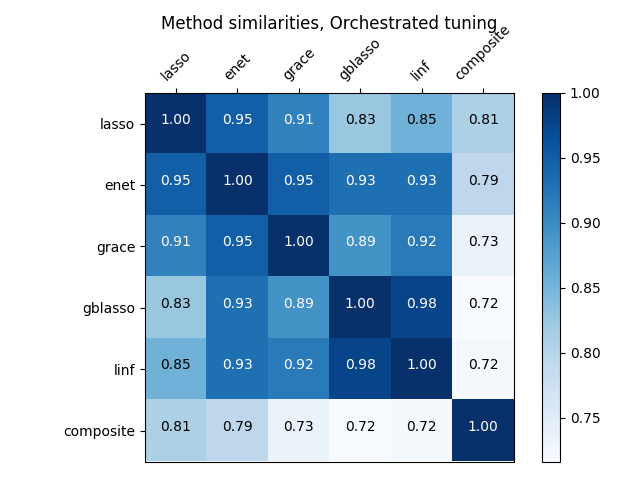
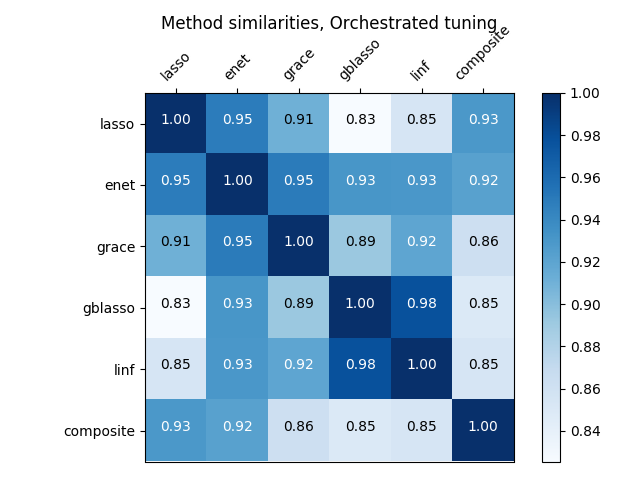
Updated optimal tuning parameters before big recalculation

diff --git a/python/plotting_utils.py b/python/plotting_utils.py
@@ -4,6 +4,7 @@ import numpy as np
 import pandas as pd
 import itertools
 import math
+from orchestrated_tuning.utilities import converge_iterations
 from commons import full_method_list as method_order, glm_l1_ratios, grace_lambda1_values, grace_lambda2_values, \
     gblasso_gamma_values, gblasso_lambda_values, linf_c_values, alinf_e_values, cm_vote_thresholds, mapping_files, \
     error_files, fraction_votes_files
@@ -55,7 +56,7 @@ def plot_similarities_heatmap(similarities, methods, url="figures/similarities.p
 def plot_summary_comparison(summary_urls, figure_url="figures/tuning_method_comparison.png",
                             suptitle="Properties by tuning method"):
     summaries = {}
-    for label, url in summary_urls.iteritems():
+    for label, url in sorted(summary_urls.iteritems(), reverse=True):
         summaries[label] = pd.read_csv(url, index_col=0)
 
     methods = set(method_order)
@@ -77,7 +78,7 @@ def plot_summary_comparison(summary_urls, figure_url="figures/tuning_method_comp
         subplot.set_xticklabels(methods, rotation=45 if n_tuning_methods == 1 else 0)
 
         j = 0
-        for label, summary in summaries.iteritems():
+        for label, summary in sorted(summaries.iteritems()):
             sub_summary = summary.loc[methods]
             subplot.bar(ind + j * width, sub_summary["%s mean" % subplots_info[i][1]], width,
                         yerr=sub_summary["%s std" % subplots_info[i][1]], label=label)
@@ -104,6 +105,8 @@ def plot_parameter_tuning(results_file_urls=["results/p550.csv"]):
         results = pd.read_csv(results_file_url, index_col=0)
         for idx, row in results.iterrows():
             model = row['model']
+            if model == "composite" and results_file_url == "results/orctun_results_coef_correlation_p550.csv":
+                continue
             cur_params = [key_value.strip().split('=') for key_value in row["params"].split(',')]
 
             if not model in parsed_params:
@@ -149,6 +152,9 @@ def plot_parameter_tuning(results_file_urls=["results/p550.csv"]):
                 g.ax_marg_x.set_xscale(xscale[model])
                 xbins = np.logspace(math.log10(xticks[model][0]), math.log10(xticks[model][-1]),
                                     2 * len(xticks[model]))
+                xbins = [xticks[model][0]] + [np.logspace(math.log10(i), math.log10(j), 3)[1] for i, j in
+                                              zip(xticks[model][:-1], xticks[model][1:])] + [
+                            xticks[model][-1]]
             else:
                 xbins = [xticks[model][0]] + [(j + i) / 2 for i, j in zip(xticks[model][:-1], xticks[model][1:])] + [
                     xticks[model][-1]]
@@ -157,13 +163,22 @@ def plot_parameter_tuning(results_file_urls=["results/p550.csv"]):
                 ax.set_yscale(yscale[model])
                 g.ax_marg_y.set_yscale(yscale[model])
                 ybins = np.logspace(math.log10(yticks[model][0]), math.log10(yticks[model][-1]),
-                                    2 * len(yticks[model]))
+                                    2 * len(yticks[model]) - 1)
+                ybins = [yticks[model][0]] + [np.logspace(math.log10(i), math.log10(j), 3)[1] for i, j in
+                                              zip(yticks[model][:-1], yticks[model][1:])] + [
+                            yticks[model][-1]]
             else:
                 ybins = [yticks[model][0]] + [(j + i) / 2 for i, j in zip(yticks[model][:-1], yticks[model][1:])] + [
                     yticks[model][-1]]
 
-            g.ax_marg_x.hist(data.iloc[:, 0], color="b", alpha=.6, bins=xbins)
-            g.ax_marg_y.hist(data.iloc[:, 1], color="b", alpha=.6, orientation="horizontal", bins=ybins)
+            xhist_values = [val for sublist in
+                            [[data.iloc[idx, 0]] * int(data.iloc[idx, 2]) for idx in range(data.shape[0])]
+                            for val in sublist]
+            yhist_values = [val for sublist in
+                            [[data.iloc[idx, 1]] * int(data.iloc[idx, 2]) for idx in range(data.shape[0])]
+                            for val in sublist]
+            g.ax_marg_x.hist(xhist_values, color="b", alpha=.6, bins=xbins)
+            g.ax_marg_y.hist(yhist_values, color="b", alpha=.6, orientation="horizontal", bins=ybins)
 
             plt.sca(ax)
             plt.scatter(x=data.iloc[:, 0], y=data.iloc[:, 1], s=data.iloc[:, 2] * 100, c=data.iloc[:, 2], cmap="Blues",
@@ -337,3 +352,12 @@ def plot_mapping_fraction_votes(fraction_votes_files=fraction_votes_files):
     plt.tight_layout()
     plt.subplots_adjust(top=0.85)
     plt.savefig("figures/mappings/vote_distribution.png")
+
+
+def plot_convergence_statistics():
+    plt.figure()
+    ax = plt.gca()
+    plot_distribution_hist(ax, converge_iterations, "Orchestrated tuning iterations required to converge",
+                           "Iterations required", "Fraction of cases")
+    plt.tight_layout()
+    plt.savefig("figures/tuning/convergence_statistics.png")

diff --git a/python/main.py b/python/main.py
@@ -7,7 +7,8 @@ from model_fitting import batch_fit_models, batch_fit_real_data
 from model_metrics import batch_evaluate_models, summarize_results
 from model_utils import export_errors, batch_evaluate_similarities
 from plotting_utils import plot_summary_comparison, plot_parameter_tuning, plot_mapping_summary, plot_mapping_errors, \
-    plot_mapping_fraction_votes
+    plot_mapping_fraction_votes, plot_convergence_statistics
+from models.composite import fit_composite_model_opt
 import pandas as pd
 import time
 
@@ -21,15 +22,16 @@ relevant_trans_factor_groups = [1, 2, 3, 4, 5]
 setups = None
 
 
-# setups = batch_generate_setups(n_regulated_genes_per_trans_factor=n_regulated_genes_per_trans_factor, load_dump=True,
-#                                n_trans_factors=n_trans_factors, train_on_tuning_dataset=True, n_tune_obs=300,
-#                                n_test_obs=100, n_relevant_trans_factor_groups=relevant_trans_factor_groups)
+setups = batch_generate_setups(n_regulated_genes_per_trans_factor=n_regulated_genes_per_trans_factor, load_dump=True,
+                               n_trans_factors=n_trans_factors, train_on_tuning_dataset=True, n_tune_obs=300,
+                               n_test_obs=100, n_relevant_trans_factor_groups=relevant_trans_factor_groups)
 
 
 def cv_mse_tune_generated_data(methods, load_dump=False):
     pd.set_option('display.width', 200)
     fits = batch_fit_models(setups, methods=methods, load_dump=load_dump)
-    similarities = batch_evaluate_similarities(fits, url="figures/cv_mse_similarities.png",
+    similarities = batch_evaluate_similarities(fits, summary_url="results/similarities.csv",
+                                               figure_url="figures/cv_mse_similarities.png",
                                                title='Method similarities, CV of MSE tuning')
     results = batch_evaluate_models(fits, "results/p%d" % p)
     summary = summarize_results(results, "results/p%d_summary" % p)
@@ -37,11 +39,20 @@ def cv_mse_tune_generated_data(methods, load_dump=False):
 
 
 def orchestrated_tune_generated_data(load_dump=False, opt_method="coef_correlation"):
+    pd.set_option('display.width', 200)
     model_dump_url = "dumps/cache/orctun_models_%s_p%d" % (opt_method, p)
-    orctun_fits = batch_do_orchestrated_tuning(setups, load_dump=load_dump, opt_method=opt_method)
-    dump(orctun_fits, model_dump_url)
+    # orctun_fits = batch_do_orchestrated_tuning(setups, load_dump=load_dump, opt_method=opt_method)
+    # dump(orctun_fits, model_dump_url)
     orctun_fits = load(model_dump_url)
-    similarities = batch_evaluate_similarities(orctun_fits, url="figures/orchestrated_similarities.png",
+
+    recalculate_composite_models = True
+    if recalculate_composite_models:
+        for setup, fits in orctun_fits:
+            del fits["composite"]
+            fits["composite"] = fit_composite_model_opt(setup, fits)
+
+    similarities = batch_evaluate_similarities(orctun_fits, summary_url="results/orctun_similarities.csv",
+                                               figure_url="figures/orchestrated_similarities.png",
                                                title='Method similarities, Orchestrated tuning')
     orctun_results = batch_evaluate_models(orctun_fits, "results/orctun_results_%s_p%d" % (opt_method, p))
     summary = summarize_results(orctun_results, "results/orctun_results_%s_p%d_summary" % (opt_method, p))
@@ -65,17 +76,18 @@ def summarize_mapping_results():
 #     methods=["lasso", "enet", "grace", "agrace", "gblasso", "linf", "alinf", "ttlp", "ltlp", "composite"],
 #     load_dump=True)
 # load_custom_start_points("results/p550.csv")
-# orchestrated_tune_generated_data(opt_method="coef_correlation", load_dump=True)
+orchestrated_tune_generated_data(opt_method="coef_correlation", load_dump=True)
+# plot_convergence_statistics()
 
 # plot_summary_comparison(summary_urls={"CV of MSE tuning": "results/p550_summary.csv"},
 #                         figure_url="figures/cv_mse_tuning.png",
 #                         suptitle="Properties by regression method, CV-MSE tuning")
-# plot_summary_comparison(summary_urls={
-#     "CV of MSE tuning": "results/p550_summary.csv",
-#     "Orchestrated tuning": "results/p550_summary.csv"},
-#     figure_url="figures/tuning_method_comparison.png",
-#     suptitle="Properties by tuning method")
-# plot_parameter_tuning(results_file_urls=["results/p550.csv", "results/p550.csv"])
+plot_summary_comparison(summary_urls={
+    "CV of MSE tuning": "results/p550_summary.csv",
+    "Orchestrated tuning": "results/orctun_results_coef_correlation_p550_summary.csv"},
+    figure_url="figures/tuning_method_comparison.png",
+    suptitle="Properties by tuning method")
+# plot_parameter_tuning(results_file_urls=["results/p550.csv", "results/orctun_results_coef_correlation_p550.csv"])
 
 # fit_optimal_parameter_models_on_real_data(methods=["lasso", "enet", "grace", "linf", "composite"], load_dump=True)
 # summarize_mapping_results()

diff --git a/python/commons.py b/python/commons.py
@@ -18,18 +18,18 @@ glm_n_alphas = 100
 glm_l1_ratios = [0.1, 0.25, 0.4, 0.5, 0.6, 0.7, 0.8, 0.9, .95, .99]
 glm_max_iter = 10000
 
-lasso_alpha_opt = 0.01
-enet_alpha_opt = 0.04
-glm_l1_ratio_opt = 0.9
+lasso_alpha_opt = 0.1 # RD 0.01
+enet_alpha_opt = 0.2 # RD 0.04
+glm_l1_ratio_opt = 0.8 # RD 0.9
 
 # Grace properties
 grace_lambda1_values = [10.0 ** x for x in range(-2, 5)]
 grace_lambda2_values = [10.0 ** x for x in range(-2, 5)]
 
-grace_lambda1_opt = 10.0
-grace_lambda2_opt = 10000
-agrace_lambda1_opt = 10.0
-agrace_lambda2_opt = 0.1
+grace_lambda1_opt = 100.0 # RD 10
+grace_lambda2_opt = 10000 # RD 10000
+agrace_lambda1_opt = 100.0
+agrace_lambda2_opt = 0.01
 
 # GBLasso properties
 gblasso_lambda_values = [10.0 ** x for x in range(-2, 5)]
@@ -38,8 +38,8 @@ gblasso_tune_maxiter = 300
 gblasso_train_maxiter = 1000
 gblasso_real_maxiter = 100
 
-gblasso_lambda_opt = 10.0
-gblasso_gamma_opt = 3.0
+gblasso_lambda_opt = 100.0
+gblasso_gamma_opt = 4.0
 
 # IMPORTANT!
 # Beware of Matlab CVX settings for Linf, aLinf, TTLP and LTLP models, using SeDuMi solver with reduced precision
@@ -48,8 +48,8 @@ gblasso_gamma_opt = 3.0
 linf_c_values = [5.0 * (x + 1) for x in range(20)]
 alinf_e_values = [5.0 * (x + 1) for x in range(20)]
 
-linf_c_opt = 35.0
-alinf_e_opt = 50.0
+linf_c_opt = 25.0 # RD 35
+alinf_e_opt = 35.0
 
 # TLP properties
 tlp_n_deltas1 = 3
@@ -62,7 +62,7 @@ tlp_n_folds = 5  # Greatly reduced number of CV folds due to the duration of cal
 # Composite model properties
 cm_vote_thresholds = [0.1, 0.2, 0.3, 0.4, 0.5, 0.6, 0.7, 0.8, 0.9, 1.0]
 
-cm_vote_thresh_opt = 0.6
+cm_vote_thresh_opt = 0.9 # RD 0.6
 
 
 def timestamp():

diff --git a/python/model_utils.py b/python/model_utils.py
@@ -55,7 +55,8 @@ def applier(a, b, op):
     return map(lambda ro: map(op, ro[0], ro[1]), zip(a, b))
 
 
-def batch_evaluate_similarities(models, url="figures/similarities.png", title='Method similarities'):
+def batch_evaluate_similarities(models, summary_url="results/similarities.csv", figure_url="figures/similarities.png",
+                                title='Method similarities'):
     methods = [method for method in export_column_order if method in models[0][1].keys()]
     similarities = np.zeros((len(methods), len(methods), len(models)))
     for i in range(len(models)):
@@ -72,6 +73,6 @@ def batch_evaluate_similarities(models, url="figures/similarities.png", title='M
     sim_merged = applier(sim_mean, sim_std, lambda mean, std: "%.3f (%.3f)" % (mean, std))
 
     summary_similarities = pd.DataFrame(data=sim_merged, index=methods, columns=methods)
-    summary_similarities.to_csv("results/similarities.csv", sep=',')
-    plot_similarities_heatmap(sim_mean, methods, url=url, title=title)
+    summary_similarities.to_csv(summary_url, sep=',')
+    plot_similarities_heatmap(sim_mean, methods, url=figure_url, title=title)
     return summary_similarities

diff --git a/python/orchestrated_tuning/utilities.py b/python/orchestrated_tuning/utilities.py
@@ -1,6 +1,9 @@
 import pandas as pd
+
 custom_start_points = None
 from commons import timestamp
+
+converge_iterations = [106, 146, 91, 95, 92, 70, 23, 59, 187, 210, 53, 113, 391, 33, 30, 32, 84, 13, 82, 55]
 
 
 def get_middle_param(grid):
